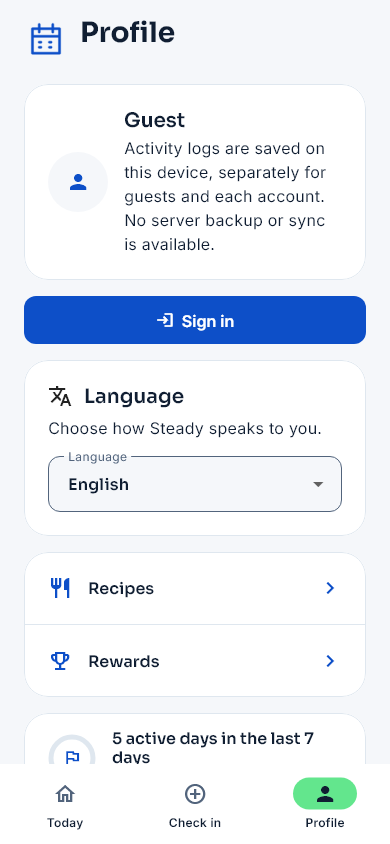
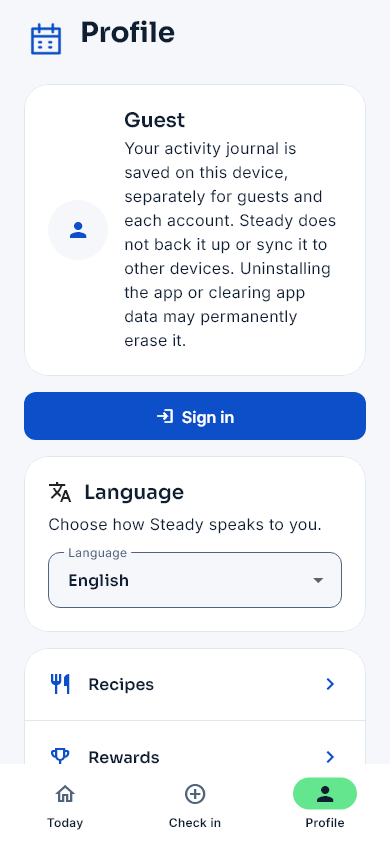
docs: accept D01 local-first journal and verify device isolation

diff --git a/test/activity_repository_test.dart b/test/activity_repository_test.dart
@@ -1,5 +1,6 @@
 import 'dart:io';
 
+import 'package:flutter/foundation.dart';
 import 'package:flutter_test/flutter_test.dart';
 import 'package:path/path.dart' as path;
 import 'package:sqflite_common_ffi/sqflite_ffi.dart';
@@ -24,6 +25,66 @@ void main() {
     await repo.close();
     await directory.delete(recursive: true);
   });
+
+  test('Android selects SQLite as the journal source of truth', () async {
+    debugDefaultTargetPlatformOverride = TargetPlatform.android;
+    addTearDown(() => debugDefaultTargetPlatformOverride = null);
+    final repository = createActivityRepository();
+    expect(repository, isA<SqliteActivityRepository>());
+    await repository.close();
+  });
+
+  test(
+    'same account on two installations keeps independent local journals',
+    () async {
+      SqliteActivityRepository openSecond() => SqliteActivityRepository(
+        factory: databaseFactoryFfi,
+        databasePath: path.join(directory.path, 'second-installation.db'),
+      );
+      var second = openSecond();
+      final firstStore = SteadyStore(activityRepository: repo);
+      final secondStore = SteadyStore(activityRepository: second);
+      try {
+        final firstGuest = await repo.guestOwnerId();
+        final secondGuest = await second.guestOwnerId();
+        expect(firstGuest, isNot(secondGuest));
+        // No Auth client or network service is needed to persist the journal.
+        await firstStore.setActivityUser('same-account');
+        await secondStore.setActivityUser('same-account');
+        await firstStore.logActivity(ActivityType.walk, 20);
+        await secondStore.reloadActivities();
+        expect(firstStore.logs.single.type, ActivityType.walk);
+        expect(secondStore.logs, isEmpty);
+        await secondStore.logActivity(ActivityType.swim, 30);
+        await firstStore.reloadActivities();
+        expect(firstStore.logs.single.type, ActivityType.walk);
+        expect(secondStore.logs.single.type, ActivityType.swim);
+
+        await firstStore.setActivityUser(null);
+        expect(firstStore.logs, isEmpty);
+        await firstStore.setActivityUser('same-account');
+        expect(firstStore.logs.single.type, ActivityType.walk);
+        await repo.close();
+        await second.close();
+        repo = openRepository();
+        second = openSecond();
+        expect(
+          (await repo.load('same-account')).single.type,
+          ActivityType.walk,
+        );
+        expect(
+          (await second.load('same-account')).single.type,
+          ActivityType.swim,
+        );
+        expect(await repo.guestOwnerId(), firstGuest);
+        expect(await second.guestOwnerId(), secondGuest);
+      } finally {
+        firstStore.dispose();
+        secondStore.dispose();
+        await second.close();
+      }
+    },
+  );
 
   test(
     'guest identity and history persist independently of accounts',

diff --git a/lib/l10n/app_localizations_vi.dart b/lib/l10n/app_localizations_vi.dart
@@ -59,7 +59,7 @@ class AppLocalizationsVi extends AppLocalizations {
 
   @override
   String get authIntro =>
-      'Đăng nhập để dùng tài khoản. Bạn có thể huỷ và tiếp tục check-in với tư cách khách.';
+      'Đăng nhập để sử dụng tài khoản. Nhật ký vận động vẫn lưu trên máy này; đăng nhập không đồng bộ nhật ký sang thiết bị khác. Bạn vẫn có thể ghi nhận với tư cách khách.';
 
   @override
   String get email => 'Email';
@@ -1381,7 +1381,7 @@ class AppLocalizationsVi extends AppLocalizations {
 
   @override
   String get localActivityStorage =>
-      'Nhật ký được lưu trên thiết bị, tách riêng khách và từng tài khoản. Chưa có sao lưu hoặc đồng bộ server.';
+      'Nhật ký vận động được lưu trên máy này, tách riêng khách và từng tài khoản. Steady không sao lưu hay đồng bộ nhật ký sang thiết bị khác. Gỡ ứng dụng hoặc xóa dữ liệu ứng dụng có thể làm mất nhật ký vĩnh viễn.';
 
   @override
   String get recipesTitle => 'Gợi ý món ăn';

diff --git a/lib/l10n/app_localizations.dart b/lib/l10n/app_localizations.dart
@@ -185,7 +185,7 @@ abstract class AppLocalizations {
   /// No description provided for @authIntro.
   ///
   /// In en, this message translates to:
-  /// **'Sign in to use your account. You can cancel and continue checking in as a guest.'**
+  /// **'Sign in to use your account. Your activity journal stays on this device; signing in does not sync it to another device. You can continue checking in as a guest.'**
   String get authIntro;
 
   /// No description provided for @email.
@@ -2579,7 +2579,7 @@ abstract class AppLocalizations {
   /// No description provided for @localActivityStorage.
   ///
   /// In en, this message translates to:
-  /// **'Activity logs are saved on this device, separately for guests and each account. No server backup or sync is available.'**
+  /// **'Your activity journal is saved on this device, separately for guests and each account. Steady does not back it up or sync it to other devices. Uninstalling the app or clearing app data may permanently erase it.'**
   String get localActivityStorage;
 
   /// No description provided for @recipesTitle.

diff --git a/lib/l10n/app_localizations_en.dart b/lib/l10n/app_localizations_en.dart
@@ -59,7 +59,7 @@ class AppLocalizationsEn extends AppLocalizations {
 
   @override
   String get authIntro =>
-      'Sign in to use your account. You can cancel and continue checking in as a guest.';
+      'Sign in to use your account. Your activity journal stays on this device; signing in does not sync it to another device. You can continue checking in as a guest.';
 
   @override
   String get email => 'Email';
@@ -1382,7 +1382,7 @@ class AppLocalizationsEn extends AppLocalizations {
 
   @override
   String get localActivityStorage =>
-      'Activity logs are saved on this device, separately for guests and each account. No server backup or sync is available.';
+      'Your activity journal is saved on this device, separately for guests and each account. Steady does not back it up or sync it to other devices. Uninstalling the app or clearing app data may permanently erase it.';
 
   @override
   String get recipesTitle => 'Recipe ideas';

diff --git a/lib/data/activity_repository.dart b/lib/data/activity_repository.dart
@@ -15,6 +15,9 @@ abstract class ActivityRepository {
   Future<void> close();
 }
 
+/// The Android beta journal is authoritative on this installation's SQLite DB.
+/// Auth only selects an owner partition; it never selects a remote repository.
+/// Keep the existing Preferences adapter for web/desktop compatibility.
 ActivityRepository createActivityRepository() =>
     kIsWeb ||
         defaultTargetPlatform == TargetPlatform.windows ||

diff --git a/docs/mvp/d01-local-first.md b/docs/mvp/d01-local-first.md
@@ -1,0 +1,60 @@
+# D01 — Android beta local-first SQLite
+
+Accepted ngày 05/11/2026 theo yêu cầu trực tiếp của chủ sản phẩm. Base triển khai
+là D02 `1128d7c`. D03–D13 còn chờ duyệt; đây không phải PR1/PR2 hay toàn bộ architecture gate.
+
+## Hợp đồng đã xác nhận
+
+- Journal Android có một nguồn chuẩn: `steady_activities.db` SQLite v2 trên mỗi
+  installation. `createActivityRepository()` chọn `SqliteActivityRepository` trên
+  Android; không có remote activity repository, upload/download journal hoặc sync queue.
+- Save/load journal không cần Auth client hay network. Auth chọn partition local
+  theo user ID; cùng tài khoản trên hai installation vẫn có hai journal độc lập.
+- Guest identity, partition account/guest và dữ liệu ActivityLog v2 giữ nguyên.
+  D01 không tự gộp guest/account hoặc suy diễn commitments từ logs.
+- Thành công chỉ sau persistence; lỗi mở/ghi DB được báo, không fallback sang RAM
+  rồi giả thành công. SQLite reopen/migration/owner isolation tests tiếp tục áp dụng.
+- Profile và màn hình đăng nhập VI/EN nói rõ journal không sync khi đăng nhập.
+  Profile giải thích gỡ app/xóa dữ liệu có thể làm mất nhật ký vĩnh viễn.
+
+Code lưu trữ này đã tồn tại trước D01; thay đổi lần này xác nhận bằng tests, cập nhật
+copy sản phẩm và quyết định ADR, không dựng thêm repository hoặc đổi schema vô ích.
+Chưa có journal cloud backup/restore của Steady. Không hứa bảo toàn journal qua
+uninstall, clear storage, mất máy hoặc đổi máy. Backup/restore ở cấp hệ điều hành
+không thuộc sync của Steady và không được chứng nhận trong PR này; không đổi Android
+backup policy hoặc xóa các bản backup có thể đang tồn tại.
+
+Supabase Auth, food personalization và reminder settings hiện hữu không phải journal
+sync; PR này không thay đổi các module đó. Web/Windows/Linux giữ adapter Preferences
+hiện tại; không mở engine mới trên các nền tảng này. Analytics/outbox, core transaction
+mới, Commitment/Recovery migrations vẫn chờ gate đầy đủ.
+
+## Verification và giới hạn
+
+Hai test bổ sung dùng factory Android và SQLite FFI thật: chọn đúng backend; hai
+database giả lập hai installation đăng nhập cùng account ghi hoạt động khác nhau,
+không nhìn thấy journal nhau, giữ riêng guest IDs sau close/reopen. Không khởi tạo
+Supabase client hay cần kết nối mạng trong test journal này. Đây là host integration
+test, không thay kiểm thử airplane mode/reinstall/two-device trên Android thật.
+
+Các test v1→v2, reopen, owner isolation, write failure và stale auth responses vẫn
+được giữ. Kết quả thực thi cuối và ảnh VI/EN nằm trong mô tả PR.
+
+Kiểm chứng host ngày 05/11/2026:
+
+- `flutter gen-l10n`: thành công, bản dịch sinh từ ARB VI/EN.
+- `flutter analyze --no-pub`: No issues found.
+- `flutter build apk --debug --no-pub`: thành công, assembleDebug 184.7 giây;
+  chưa cài/chạy APK trên thiết bị thật.
+- `flutter test test tool/brand_visual_review_test.dart --no-pub --reporter expanded`:
+  175 passed, 1 skipped (browser-only), bao gồm hai test D01 và một visual capture test.
+- Ảnh [Profile VI](../screenshots/brand/vi-profile.png) và
+  [Sign-in EN](../screenshots/brand/en-sign-in.png) được rà trực quan; test layouts
+  với chữ lớn tiếp tục pass. Không nâng dependency để chạy test.
+
+## Data impact / rollback
+
+Không migration, không đổi database filename/version/fields, không backfill/xóa logs,
+không thêm dependencies hoặc production backend. Revert commit D01 chỉ khôi phục
+copy/docs/tests; dữ liệu local không bị ảnh hưởng. Muốn sync/backup journal sau beta
+cần quyết định riêng về ownership, consent, conflict và migration trước triển khai.

diff --git a/docs/activity-storage.md b/docs/activity-storage.md
@@ -1,5 +1,17 @@
 # Activity storage
 
+## D01 decision — 5 November 2026
+
+Android beta uses the existing SQLite v2 journal as its local source of truth.
+Signing into the same account on another installation does not transfer or sync
+activity logs. Steady provides no journal server backup/restore; uninstalling or
+clearing app data may permanently lose local history. OS-level restore behavior
+is outside this guarantee and was not tested here. See [D01](mvp/d01-local-first.md).
+
+Factory selection and two independent SQLite databases with the same account are
+covered in `test/activity_repository_test.dart`. No schema migration is added.
+The details and October verification below describe the existing baseline.
+
 Android and iOS use `sqflite` with a versioned `steady_activities.db` in the
 platform database directory. `ActivityRepository` is injectable for tests.
 There is no in-memory fallback that reports a successful save.
@@ -77,12 +89,13 @@ No physical Android/iOS run or live account login was performed for this change.
 - Switch between two real Supabase accounts, sign out, and sign back in; check
   that each account and the guest see only their own activities. Repeat after
   terminating the app, including while a write is pending.
-- Enter Meals without automatic navigation. Only its setup button opens health
-  and nutrition screening. Cancel back to Meals and use the Home tab. Complete
-  screening to return to Meals; check that unassessed/ineligible cases cannot
-  create or swap plans. Signing in must return to Home without screening.
+- Open Meals through Profile (D02); verify saved daily-menu data remains accessible.
+  Research screening is not routed from the app. Signing in preserves the primary
+  tab and closes private routes; it does not upload or merge the journal.
 - Verify saving/loading UI on device, including a storage write failure and retry.
 - Check recording around local midnight and after changing the device timezone.
 
-Browser and Windows production SQLite backends are outside this change. If the
-native plugin is unavailable, the load error is shown and saving stays disabled.
+Web, Windows and Linux currently use PreferencesActivityRepository; Android/iOS
+use SQLite. D01 does not change these platform adapters. On SQLite platforms an
+unavailable native plugin produces a load error and saving stays disabled; it does
+not silently fall back to an ephemeral journal.

diff --git a/docs/mvp/adr-001.md b/docs/mvp/adr-001.md
@@ -1,17 +1,20 @@
 # ADR-001 — Local-first Android beta và quy tắc tuần
 
-Status: **Proposed**, chưa Accepted. Quyết định D01–D13 tại [gate](README.md).
+Status: **D01 Accepted — 05/11/2026, theo yêu cầu trực tiếp của chủ sản phẩm.**
+Phê duyệt chỉ áp dụng lựa chọn Android beta local-first SQLite, không sync journal
+đa thiết bị. Các quy tắc domain, transaction/outbox mới và D03–D13 vẫn Proposed;
+không coi toàn bộ ADR đã Accepted. Xem [D01](d01-local-first.md) và [gate](README.md).
 
 ## Lựa chọn lưu trữ
 
-| Tiêu chí | SQLite local-first (đề xuất) | Supabase-authoritative + offline cache |
+| Tiêu chí | SQLite local-first (D01 đã chọn) | Supabase-authoritative + offline cache |
 |---|---|---|
 | Nguồn chuẩn core | SQLite trên installation + owner | Server; local pending commands chưa là kết quả chuẩn |
 | Offline/guest | Ghi local atomic ngay, guest sẵn có | Cần guest store + command queue, reconciliation lúc login |
 | Multi-device | Không hỗ trợ journal sync trong beta | Có thể hỗ trợ, phải xử lý retry/revision/ownership |
 | Xung đột | Một DB, transaction + compare-and-swap revision | Server idempotency, optimistic versions, merge/khước từ command |
 | Migration hiện hữu | Additive quanh activity_logs v2 | Upload/import, mapping identity, tránh duplicate và rollback import |
-| Rủi ro | Uninstall/clear storage làm mất journal, không backup cloud | Mạng/auth chặn confirmation, sync phức tạp, RLS staging bắt buộc |
+| Rủi ro | Uninstall/clear storage có thể làm mất journal, không có backup journal của Steady | Mạng/auth chặn confirmation, sync phức tạp, RLS staging bắt buộc |
 
 Chọn local-first vì mục tiêu Android/offline và nhật ký v2 đã có. Supabase tiếp tục
 Auth và các module food/reminder hiện hữu; không thành nguồn chuẩn core chỉ vì

diff --git a/docs/mvp/README.md b/docs/mvp/README.md
@@ -27,9 +27,10 @@ Các tỷ lệ ưu tiên 37.5/37.5/12.5/12.5 là trọng tâm sản phẩm, khô
 
 ## Checklist quyết định cần chủ sản phẩm xác nhận
 
-**D02 được người dùng yêu cầu triển khai riêng ngày 05/11/2026.** Xem
-[phạm vi triển khai D02](d02-navigation.md). D01 và D03–D13 vẫn **pending**;
-không coi phê duyệt D02, việc tạo PR hay test xanh là duyệt toàn bộ kiến trúc.
+**D01 và D02 được người dùng yêu cầu triển khai riêng ngày 05/11/2026.** Xem
+[hợp đồng local-first D01](d01-local-first.md) và [triển khai D02](d02-navigation.md).
+D03–D13 vẫn **pending**; không coi phê duyệt D01/D02, việc tạo PR hay test xanh
+là duyệt toàn bộ kiến trúc hoặc cho phép triển khai Commitment/Recovery.
 
 | ID | Mặc định đề xuất | Tradeoff / phương án khác |
 |---|---|---|
